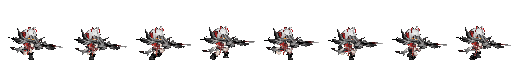
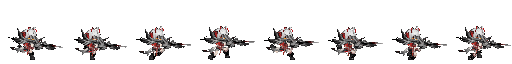
维什戴尔 S3 跑动第二版：移动时看得出在跑（整合会话 11-03 反馈「移动时仍像蹲射」）
查明切换逻辑本身生效：探针在 S3 期间走 / 停，队长和队友移动时都切到 skill_s3_run / move_skill_s3_attack，静止回蹲射循环（anim_move_capture 150 帧：移动 53 帧 skill_s3_run、静止 52 帧 skill_s3_loop）。
问题在画面：架炮上半身 + 小步幅在 1 倍像素下和蹲射分不出。照 S2 跑动第二版：步幅 ×1.8、离地抬高，四件浮游武器上抬 6 像素 / 后收 2 像素露出腿；跑动开炮步幅 ×1.6。只换两张 @1x 帧条与生成参数。

diff --git a/tools/op_1x/make_wisadel_s3_run.py b/tools/op_1x/make_wisadel_s3_run.py
@@ -19,8 +19,12 @@ OP = "wisadel"
 N = 8
 # 开炮段：Skill_3_Loop 里炮口抬起后坐、再压回的那一下（--probe 量出来的时间）；8 帧对齐 skill_s3_attack 的 fire 3
 ATK_TIMES = [0.2, 0.32, 0.45, 0.625, 0.75, 1.0, 1.25, 1.4]
-RUN_EXTRA = {"mode": "run", "sample": None, "params": {"armAmp": 2, "holdAmp": 1, "stride": 1.4},
-             "gaitLiftPx": [None, None, None, None, 12, 14, 6, 3]}
+# 第二版（11-03 整合会话：移动时仍看着像蹲射）：架炮上半身 + 小步幅在 1 倍像素下和蹲射分不出。照 S2 跑动第二版：
+# 步幅 ×1.8、离地抬高，四件浮游武器随身体上抬 6 像素 / 后收 2 像素，腿露在炮下面；跑动开炮同样加大步幅
+RUN_EXTRA = {"mode": "run", "sample": None, "params": {"armAmp": 2, "holdAmp": 1, "stride": 1.8},
+             "gaitLiftPx": [None, None, None, None, 16, 18, 8, 4],
+             "carry": {k: [-2, 6, 0] for k in ("C_Weapon_A_01", "C_Weapon_B_01", "C_Weapon_C_01", "C_Weapon_D_01")}}
+MOVE_ATK_EXTRA = {"params": {"stride": 1.6}, "gaitLiftPx": [None, None, None, None, 14, 16, 7, 3]}
 
 
 def base_cfg(sprites):
@@ -63,7 +67,7 @@ def main():
         "op_wisadel_skill_s3_run": ("skill_s3_loop", dict(base, scaleMul=scale, base={"anim": "Skill_3_Idle", "t": 0}, **{k: v for k, v in RUN_EXTRA.items() if k != "params"},
                                                           params=dict(base.get("params", {}), **RUN_EXTRA["params"]))),
         "op_wisadel_move_skill_s3_attack": ("skill_s3_attack", dict(base, scaleMul=scale, mode="move_attack", sample={"anim": "Skill_3_Loop", "times": atk_t},
-                                                                    params=dict(base.get("params", {}), stride=1.2))),
+                                                                    gaitLiftPx=MOVE_ATK_EXTRA["gaitLiftPx"], params=dict(base.get("params", {}), **MOVE_ATK_EXTRA["params"]))),
     }
     for tex, (ref, c) in jobs.items():
         if a.only and tex not in a.only.split(","):
